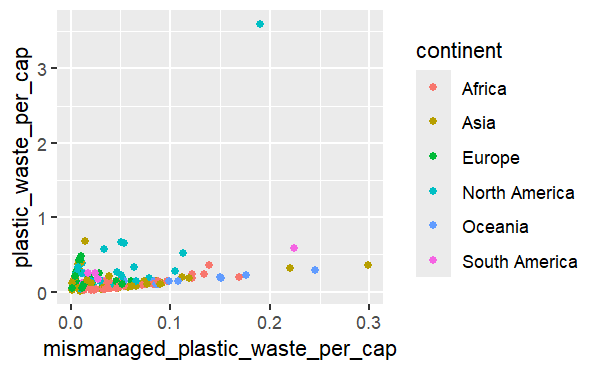
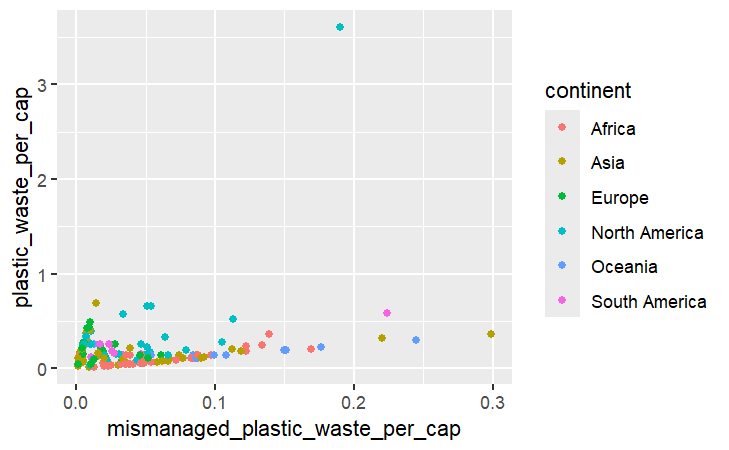
Complete exercise 4

diff --git a/lab-02.md b/lab-02.md
@@ -189,7 +189,7 @@ ggplot(plastic_waste, aes(x= continent, y= plastic_waste_per_cap)) + geom_violin
 
 3.1 Violin plots vs boxplots  
 - Violin plots better show the distribution of our data, specifically
-the density. Whereas, boxplots bbetter show summary statistics such as
+the density. Whereas, boxplots better show summary statistics such as
 the median, quartiles, and outliers.
 
 ### Exercise 4
@@ -197,20 +197,61 @@ the median, quartiles, and outliers.
 Remove this text, and add your answer for Exercise 4 here.
 
 ``` r
-# insert code here
+ggplot(plastic_waste, aes(y = mismanaged_plastic_waste_per_cap, x = plastic_waste_per_cap)) + geom_point()
 ```
 
-``` r
-# insert code here
-```
+    ## Warning: Removed 51 rows containing missing values or values outside the scale range
+    ## (`geom_point()`).
+
+![](lab-02_files/figure-gfm/plastic-waste-mismanaged-1.png)<!-- -->
+
+4.1 Describing relationship between plastic waste per capita and
+mismanaged waste  
+- The relationship between plastic waste and mismanged waste is positive
+and linear
 
 ``` r
-# insert code here
+ggplot(plastic_waste, aes(x = mismanaged_plastic_waste_per_cap, y = plastic_waste_per_cap, colour = continent)) + geom_point()
 ```
 
+    ## Warning: Removed 51 rows containing missing values or values outside the scale range
+    ## (`geom_point()`).
+
+![](lab-02_files/figure-gfm/plastic-waste-mismanaged-continent-1.png)<!-- -->
+
+4.2 Interpretation by continent  
+- Countries in Europe tend to have the lowest plastic waste per capita
+and the most well managed waste per capita.  
+- One country in North America has poor waste management and a high
+level of waste per capital. Otherwise, most coutntries in North America
+are clustered.  
+- Countries of Africa, Oceana, and South America appear to have the most
+variable relationships. Patterning may be related to development of
+country.
+
 ``` r
-# insert code here
+ggplot(plastic_waste, aes(x = plastic_waste_per_cap, y = total_pop)) + geom_point()
 ```
+
+    ## Warning: Removed 61 rows containing missing values or values outside the scale range
+    ## (`geom_point()`).
+
+![](lab-02_files/figure-gfm/plastic-waste-population-total-1.png)<!-- -->
+
+``` r
+ggplot(plastic_waste, aes(x = plastic_waste_per_cap, y = coastal_pop)) + geom_point()
+```
+
+    ## Warning: Removed 51 rows containing missing values or values outside the scale range
+    ## (`geom_point()`).
+
+![](lab-02_files/figure-gfm/plastic-waste-population-coastal-1.png)<!-- -->
+
+4.3  
+- Neither of these pairs of variables appear to be more strongly
+linearly associated than the other. However, if I had to choose, I would
+say that the coastal population plot is likely more linear due to an
+higher number of outliers.
 
 ### Exercise 5
 
